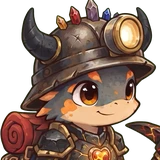
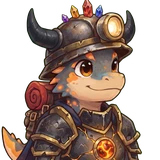
feat(évolution): portrait Gemini dédié pour le Cœur du monde
Le portrait était découpé dans l'image en pied ; il vient maintenant du
buste généré par Gemini, avec le cœur de lave visible dans le plastron.

diff --git a/art-source/evolutions/preparer-coeur.py b/art-source/evolutions/preparer-coeur.py
@@ -1,8 +1,8 @@
 """Prépare les images de la Légende du Cœur du monde et des étoiles de rang (sources Gemini sur fond vert #00FF00).
 
   evolutions/coeur-pied.png -> frontend/public/assets/evolutions/coeur.webp (corps fixe, en attendant l'animation)
-                            -> frontend/public/assets/evolutions/coeur-portrait.webp (tête et épaules, 160 px)
                             -> art-source/animations/coeur-depart-16x9.png (image de départ de la vidéo de frappe)
+  evolutions/coeur-portrait.jpg -> frontend/public/assets/evolutions/coeur-portrait.webp (tête et plastron, 160 px)
   ui/etoiles.png            -> frontend/public/assets/ui/etoile-pleine.webp et etoile-vide.webp
 
 Lancer depuis la racine du dépôt : python art-source/evolutions/preparer-coeur.py
@@ -19,8 +19,8 @@ GREEN_TRANSPARENT = 110
 QUALITY = 90
 BODY_HEIGHT = 512
 PORTRAIT_SIZE = 160
-# Cadre du portrait dans coeur-pied.png (2048 × 2048) : cornes, casque et cœur serti dans le plastron
-PORTRAIT_BOX = (470, 150, 1470, 1150)
+# Cadre du portrait dans coeur-portrait.jpg (2048 × 2048) : cornes, casque et cœur serti dans le plastron
+PORTRAIT_BOX = (250, 120, 1690, 1560)
 STAR_SIZE = 128
 # Image de départ de la vidéo : 16:9, le personnage n'occupe que 62 % de la hauteur, pour que Gemini
 # garde la tête et les pieds dans le cadre pendant tout le coup
@@ -56,13 +56,17 @@ def prepare_heart() -> None:
     keyed = key_out_green(Image.open(ART / "evolutions" / "coeur-pied.png"))
     body = trim(keyed)
     fit_height(body, BODY_HEIGHT).save(ASSETS / "evolutions" / "coeur.webp", quality=QUALITY)
-    keyed.crop(PORTRAIT_BOX).resize((PORTRAIT_SIZE, PORTRAIT_SIZE), Image.LANCZOS).save(
-        ASSETS / "evolutions" / "coeur-portrait.webp", quality=QUALITY
-    )
     start = Image.new("RGBA", START_SIZE, (*GREEN, 255))
     small = fit_height(body, round(START_SIZE[1] * START_BODY_SHARE))
     start.alpha_composite(small, ((START_SIZE[0] - small.width) // 2, (START_SIZE[1] - small.height) // 2))
     start.convert("RGB").save(ART / "animations" / "coeur-depart-16x9.png")
+
+
+def prepare_portrait() -> None:
+    portrait = key_out_green(Image.open(ART / "evolutions" / "coeur-portrait.jpg")).crop(PORTRAIT_BOX)
+    portrait.resize((PORTRAIT_SIZE, PORTRAIT_SIZE), Image.LANCZOS).save(
+        ASSETS / "evolutions" / "coeur-portrait.webp", quality=QUALITY
+    )
 
 
 def prepare_stars() -> None:
@@ -76,6 +80,7 @@ def prepare_stars() -> None:
 
 if __name__ == "__main__":
     prepare_heart()
+    prepare_portrait()
     prepare_stars()
     for path in ("evolutions/coeur.webp", "evolutions/coeur-portrait.webp", "ui/etoile-pleine.webp", "ui/etoile-vide.webp"):
         with Image.open(ASSETS / path) as result:
